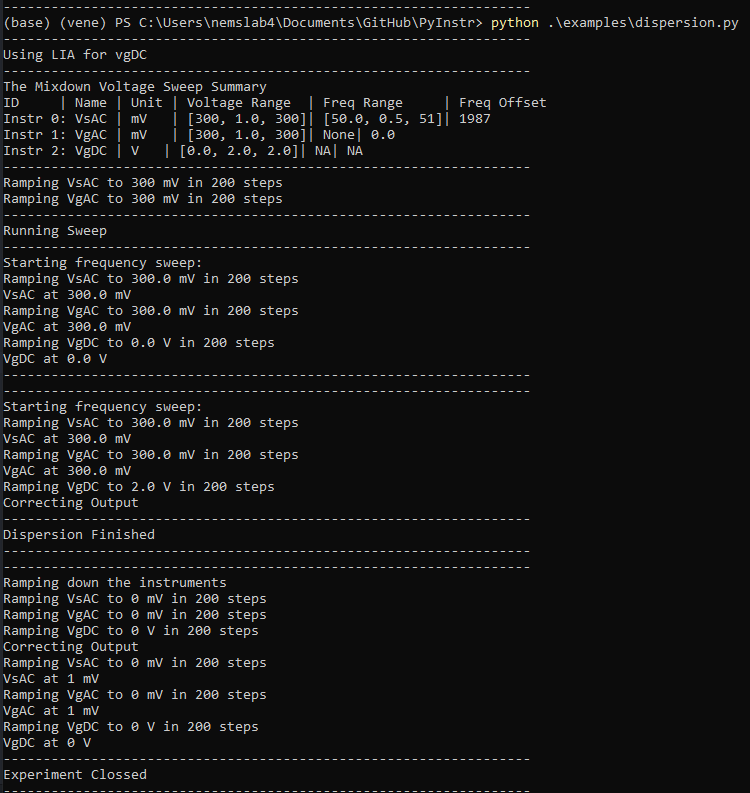
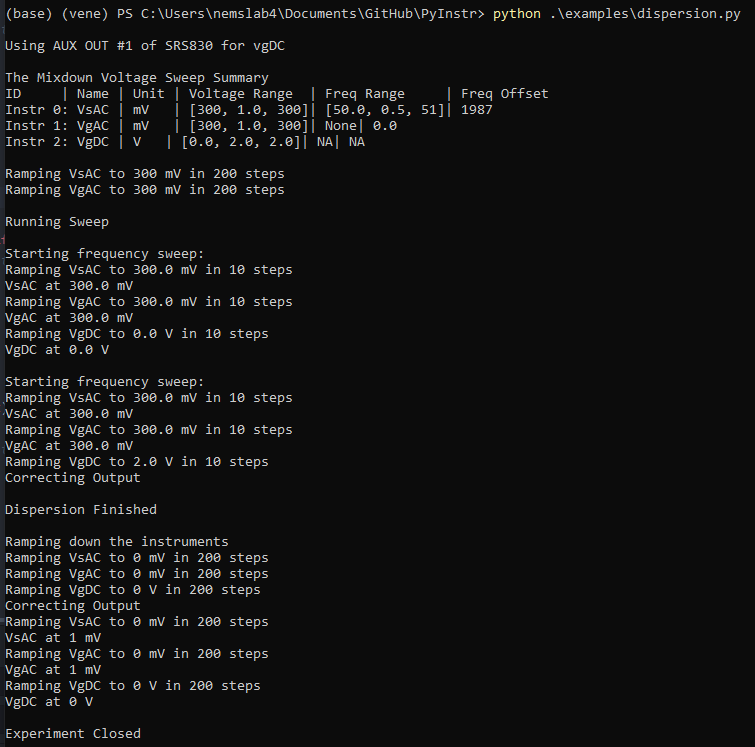
minor repr fixes

Changed region(s): [[0.0, 0.0, 0.9813, 1.0], [0.4293, 0.1232, 0.736, 0.2155]]

diff --git a/lib/experiments.py b/lib/experiments.py
@@ -49,7 +49,7 @@ class MixdownFreqSweep():
             print(arrtErr)
             print('Error Occured')
             for i in range(len(self.instrList)):
-                self.instrList[i].rampV(0.001)
+                self.instrList[i].rampDown()
                 self.instrList[i].close()
             self.liaInstr.close()
             print('instruments closed')
@@ -70,7 +70,7 @@ class VoltageSweep(MixdownFreqSweep):
 
 
     def sweepSummary(self):
-        print('------------------------------------------------------------------')
+        print('')
         print('The Mixdown Voltage Sweep Summary')
         print('ID     | Name | Unit | Voltage Range  | Freq Range     | Freq Offset')
         for i in range(len(self.instrList)):
@@ -79,7 +79,7 @@ class VoltageSweep(MixdownFreqSweep):
                                     + '   | '+str(self.instrList[i].voltageSweepRange)
                                     + '| '+str(self.instrList[i].freqSweepRange)
                                     + '| '+str(self.instrList[i].freqOffSet))
-        print('------------------------------------------------------------------')
+        print('')
 
 
     def setExperiment(self):
@@ -103,16 +103,15 @@ class VoltageSweep(MixdownFreqSweep):
     def runVtgSweep(self):
         sweepSpace = self.generateSweepSpace()
         for i in sweepSpace:
-            print('------------------------------------------------------------------')
+            print('')
             print('Starting frequency sweep:')
             for j in range(len(self.instrList)):
-                self.instrList[j].rampV(i[j])
+                self.instrList[j].rampV(i[j],10)
             self.runSweep()
-            print('------------------------------------------------------------------')
 
 
     def rampDownAll(self):
-        print('------------------------------------------------------------------')
+        print('')
         print('Ramping down the instruments')
         for i in range(len(self.instrList)):
             self.instrList[i].rampV(0)
@@ -133,8 +132,9 @@ class DispersionSweep(VoltageSweep):
         liA  = getattr(inst, paramDict['LIA']['instClass'])(paramDict['LIA']['address'],
                                                             paramDict['LIA']['timeConstant'])
         if 'SRS' in paramDict['vgDC']['instClass']:
-            print('------------------------------------------------------------------')
-            print('Using LIA for vgDC')
+            print('')
+            print('Using AUX OUT #{0} of {1} for vgDC'.format(paramDict['vgDC']['auxOutPort'],
+                                                               paramDict['vgDC']['instClass']))
             vgDC.waitFor = paramDict['LIA']['timeConstant']
             vgDC.auxOutPort = paramDict['vgDC']['auxOutPort']
 
@@ -157,9 +157,9 @@ class DispersionSweep(VoltageSweep):
 
     def runDispersion(self):
         self.setExperiment()
-        print('------------------------------------------------------------------')
+        print('')
         print('Running Sweep')
         self.runVtgSweep()
+        print('')
         print('Dispersion Finished')
-        print('------------------------------------------------------------------')
         self.rampDownAll()

diff --git a/examples/dispersion.py b/examples/dispersion.py
@@ -31,6 +31,6 @@ except:
 
 
 dispersion.closeAll()
-print('------------------------------------------------------------------')
-print('Experiment Clossed')
-print('------------------------------------------------------------------')
+print('')
+print('Experiment Closed')
+print('-----------------')

diff --git a/lib/instruments.py b/lib/instruments.py
@@ -78,7 +78,7 @@ class Instrument:
 
 
     def rampDown(self,rampN = 200,ps = 0.05):
-        self.rampV(0,rampN,ps)
+        self.rampV(1,rampN,ps)
 
 
     def setFreq(self, freq, phs = 0):
